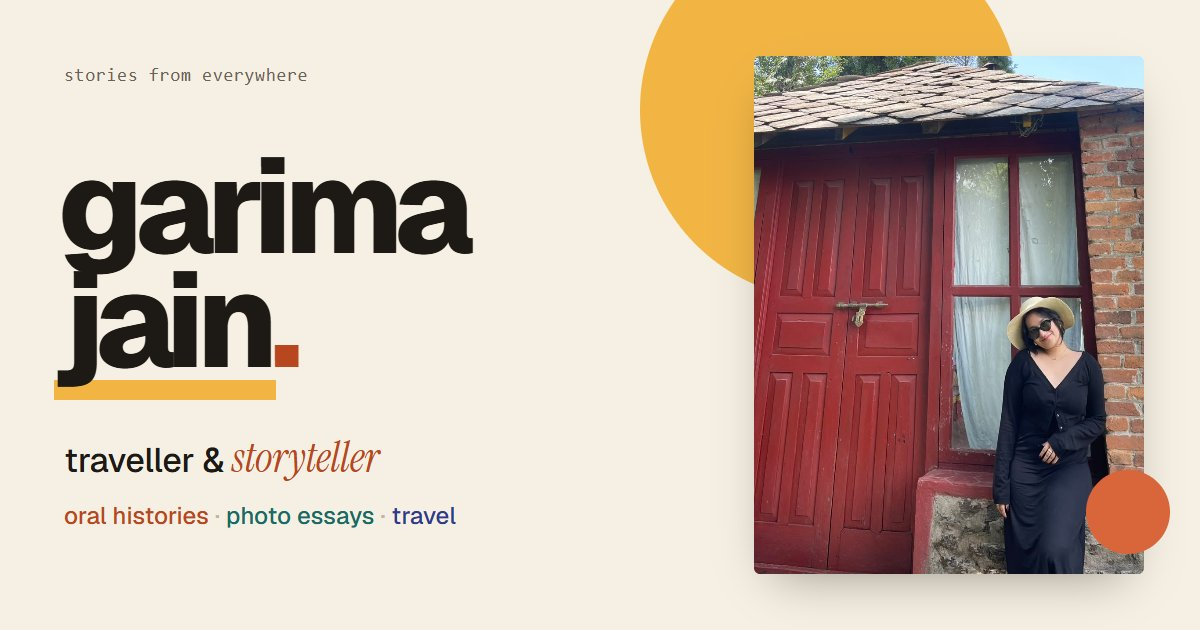
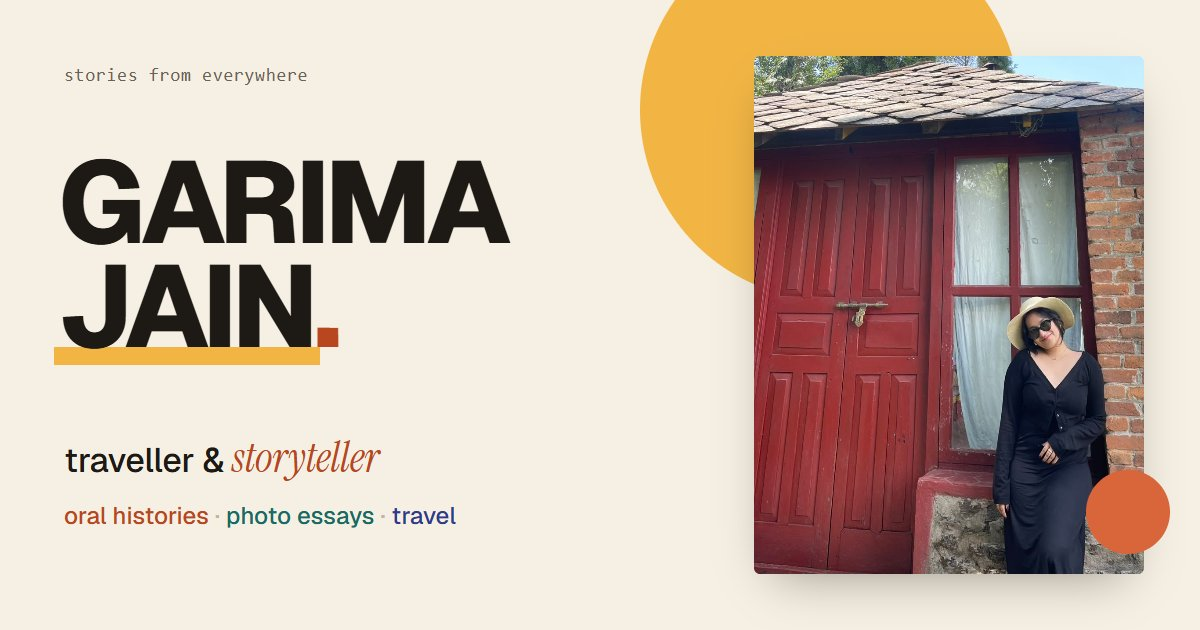
Name in capitals: GARIMA JAIN
Hero (sized down 12% for wider capitals), navbar logo and hover, loader, footer, quote byline, article byline and bio, and the share card.

Changed region(s): [[0.0308, 0.2413, 0.4317, 0.6635]]

diff --git a/src/app/pages/blog/blog-detail.page.scss b/src/app/pages/blog/blog-detail.page.scss
@@ -28,7 +28,7 @@
   display: flex; flex-direction: column; gap: 6px; font-size: 14px; color: var(--c-muted);
   @include m.laptop { grid-area: by; }
 }
-.article__author { display: flex; align-items: center; gap: 8px; color: var(--c-fg); }
+.article__author { display: flex; align-items: center; gap: 8px; color: var(--c-fg); text-transform: uppercase; letter-spacing: 0.02em; }
 .article__avatar, .bio__avatar { display: none; }
 .article__sep { display: none; }
 
@@ -153,7 +153,7 @@
 .tag { min-height: 34px; padding: 0 14px; border: 1px solid color-mix(in srgb, currentColor 35%, transparent); border-radius: 999px; font-size: 13px; color: var(--c-muted);
   display: inline-flex; align-items: center; text-transform: lowercase; }
 .bio { display: flex; gap: 16px; align-items: baseline; border-top: 1px solid var(--c-line); padding-top: 24px; max-width: var(--measure); }
-.bio__name { font-weight: 600; font-size: 18px; white-space: nowrap; }
+.bio__name { font-weight: 600; font-size: 18px; white-space: nowrap; text-transform: uppercase; letter-spacing: 0.02em; }
 .bio__text { color: var(--c-muted); font-size: 15px; }
 
 .pager {

diff --git a/src/app/layout/loader.component.ts b/src/app/layout/loader.component.ts
@@ -8,8 +8,8 @@ import { MotionService } from '../core/services/motion.service';
   template: `
     @if (!done()) {
       <div #root class="loader band--marigold" role="status" aria-label="Loading">
-        <span #mono class="loader__mono">g<span style="color: var(--c-accent)">.</span></span>
-        <span #name class="loader__name">garima jain</span>
+        <span #mono class="loader__mono">G<span style="color: var(--c-accent)">.</span></span>
+        <span #name class="loader__name">GARIMA JAIN</span>
       </div>
     }
   `,
@@ -22,7 +22,7 @@ import { MotionService } from '../core/services/motion.service';
     }
     .loader__mono, .loader__name { grid-area: 1 / 1; }
     .loader__mono { font-size: 96px; line-height: 1; }
-    .loader__name { font-size: clamp(56px, 10vw, 140px); opacity: 0; }
+    .loader__name { font-size: clamp(44px, 8.5vw, 120px); letter-spacing: -0.04em; opacity: 0; white-space: nowrap; }
   `,
 })
 export class LoaderComponent implements AfterViewInit {

diff --git a/src/app/sections/hero/hero.component.ts b/src/app/sections/hero/hero.component.ts
@@ -15,8 +15,8 @@ import { scrollToSection } from '../../core/scroll';
 })
 export class HeroComponent implements AfterViewInit, OnDestroy {
   protected readonly profile = PROFILE;
-  /** "garima jain" → [['g','a',…], ['j','a',…]] — each letter animates in on its own. */
-  protected readonly nameWords = PROFILE.name.toLowerCase().split(' ').map((w) => w.split(''));
+  /** "GARIMA JAIN" → [['G','A',…], ['J','A',…]] — each letter animates in on its own. */
+  protected readonly nameWords = PROFILE.name.toUpperCase().split(' ').map((w) => w.split(''));
   protected readonly portrait = 'images/garima-portrait.jpg';
 
   private readonly root = viewChild.required<ElementRef<HTMLElement>>('root');

diff --git a/src/app/layout/navbar/navbar.component.html b/src/app/layout/navbar/navbar.component.html
@@ -2,7 +2,7 @@
   <div class="nav__inner">
     <a routerLink="/" class="nav__brand" aria-label="Garima Jain — home">
       <span class="nav__place" aria-hidden="true">stories from everywhere</span>
-      <span class="nav__name" aria-hidden="true">garima<span class="nav__surname"><span>&nbsp;jain</span></span><span class="nav__dot">.</span></span>
+      <span class="nav__name" aria-hidden="true">GARIMA<span class="nav__surname"><span>&nbsp;JAIN</span></span><span class="nav__dot">.</span></span>
     </a>
 
     <nav class="nav__desktop" aria-label="Primary">

diff --git a/src/app/layout/navbar/navbar.component.scss b/src/app/layout/navbar/navbar.component.scss
@@ -59,7 +59,7 @@
 }
 .nav__place { font-family: var(--f-mono); font-size: 10px; letter-spacing: 0.04em; color: var(--c-dim); line-height: 1;
   .nav--open & { color: inherit; opacity: 0.7; } }
-.nav__name { display: flex; font-size: 22px; font-weight: 700; letter-spacing: -0.035em; line-height: 1.05; white-space: nowrap; }
+.nav__name { display: flex; font-size: 20px; font-weight: 700; letter-spacing: -0.02em; line-height: 1.05; white-space: nowrap; }
 
 // Hover (or keyboard focus) reveals the surname: "garima." → "garima jain."
 .nav__surname {

diff --git a/src/app/sections/philosophy.component.ts b/src/app/sections/philosophy.component.ts
@@ -12,7 +12,7 @@ import { RevealDirective } from '../core/directives/reveal.directive';
         <blockquote class="philosophy__quote" appReveal>
           “{{ q.quote.toLowerCase() }} {{ lead }} <em>{{ tail }}</em>”
         </blockquote>
-        <figcaption class="philosophy__by" appReveal="fade" [revealDelay]="0.2">— garima jain</figcaption>
+        <figcaption class="philosophy__by" appReveal="fade" [revealDelay]="0.2">— GARIMA JAIN</figcaption>
       </figure>
     </section>
   `,

diff --git a/src/app/layout/footer/footer.component.ts b/src/app/layout/footer/footer.component.ts
@@ -8,7 +8,7 @@ import { PROFILE } from '../../core/data/site-content';
   changeDetection: ChangeDetectionStrategy.OnPush,
   template: `
     <footer class="footer">
-      <span class="footer__copy">© {{ year }} garima jain — collected along the way.</span>
+      <span class="footer__copy">© {{ year }} GARIMA JAIN — collected along the way.</span>
       <nav class="footer__links" aria-label="Footer">
         <a routerLink="/about">about</a>
         <a routerLink="/blog">stories</a>

diff --git a/src/app/sections/hero/hero.component.scss b/src/app/sections/hero/hero.component.scss
@@ -159,11 +159,12 @@
   position: relative;
   z-index: 2;
   margin: 0;
-  font-size: var(--t-mega);
+  // Capitals are wider than lowercase, so the name runs ~12% smaller to keep the same footprint.
+  font-size: calc(var(--t-mega) * 0.88);
   font-weight: 700;
-  line-height: 0.82;
-  letter-spacing: -0.065em;
-  text-transform: lowercase;
+  line-height: 0.86;
+  letter-spacing: -0.05em;
+  text-transform: uppercase;
   display: flex;
   flex-wrap: wrap;
   column-gap: 0.22em;
